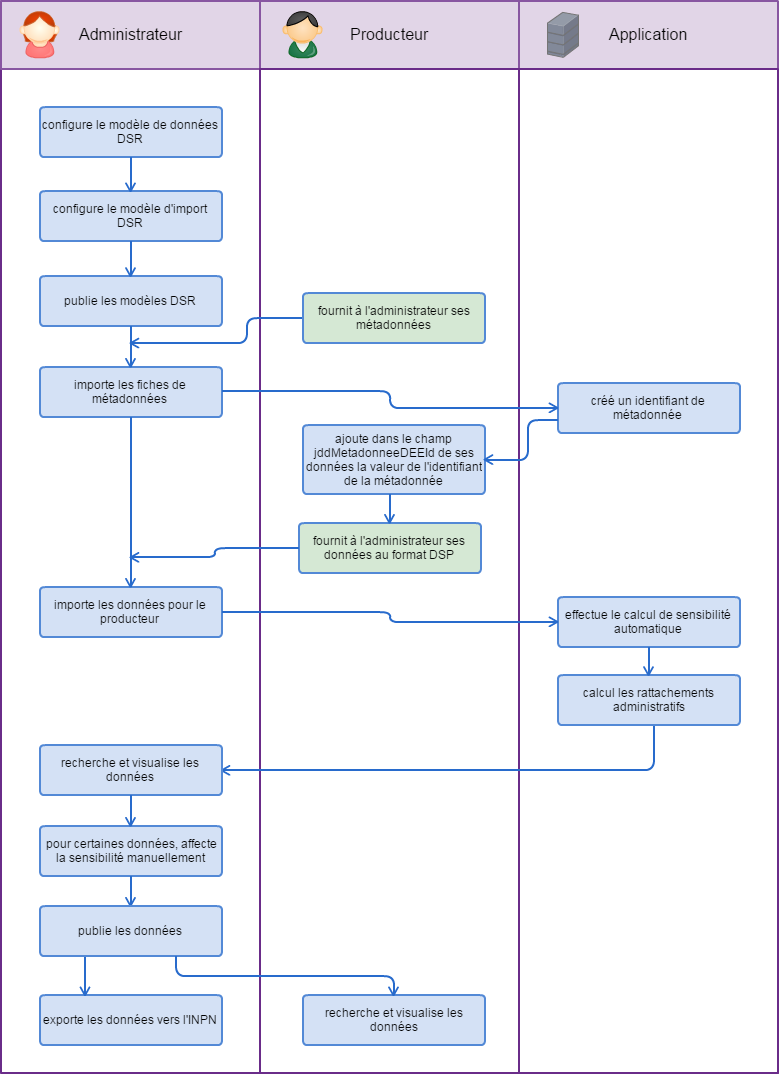
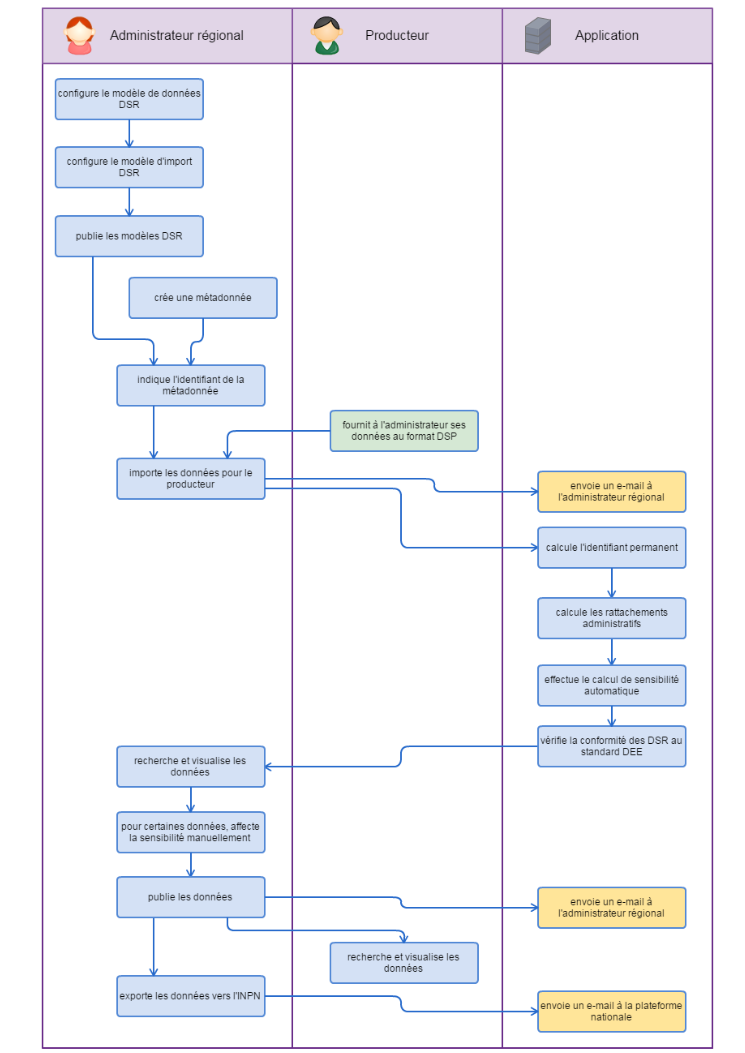
#812: Update documentation pictures

diff --git a/documentation/user/source/gestion-jdd/gerer-les-jeux-de-donnees.rst b/documentation/user/source/gestion-jdd/gerer-les-jeux-de-donnees.rst
@@ -10,12 +10,21 @@ Importer un nouveau jeu de données
 
 Sur la page d'accueil "Gérer les jeux de données", cliquez sur "Importer un nouveau jeu de données".
 
+L'application redirige sur la page de déclaration de l'identifiant de métadonnées.
+
+.. image:: ../images/gestion-jdd/nouveau-jdd-4.png
+
+Vous devez alors renseigner :
+
+1. **l'identifiant de métadonnées** correspondant à votre jeu de données. Pour cela il faut que vous ayez créé une métadonnée (voir :ref:`metadonnees_index` ).
+
+2. **le modèle de données** rattaché au jeu de données
+
+Après avoir validé, choisissez ensuite :
+
 .. image:: ../images/gestion-jdd/nouveau-jdd-2.png
 
-Choisissez ensuite :
-
-1. **le modèle d'import à utiliser :** celui-ci définit le modèle de données auquel doit être rattaché
-le jeu de données, mais aussi le format attendu du (des) fichier(s) csv; en particulier le nombre et l'ordre des
+1. **le modèle d'import à utiliser :** celui-ci définit le format attendu du (des) fichier(s) csv; en particulier le nombre et l'ordre des
 champs, leur caractère obligatoire, le format des dates. Les modèles d'import sont créés par l'administrateur régional
 dans le configurateur Ginco.
 
@@ -42,7 +51,7 @@ et se fait en arrière plan.
 .. image:: ../images/gestion-jdd/importer-ERROR.png
 
 Une barre de progression indique le pourcentage de données traitées et importées. Le résultat de l'import est
-ensuite affiché : OK ou ERROR. Dans ce cas, téléchargez le "Rapport de conformité et cohérence", qui liste les erreurs
+ensuite affiché : le fichier contient des erreurs, ou les données ont bien été importées. Dans ce cas, téléchargez le "Rapport de conformité et cohérence", qui liste les erreurs
 rencontrées lors de l'import, pour vous aider à corriger le problème. Vous pouvez aussi vous reporter
 à :ref:`corriger_les_erreurs_dimport`.
 
@@ -53,21 +62,21 @@ Liste des jeux de données
 La page d'accueil de gestion des jeux de données liste l'ensemble des jeux de données importés ainsi que leurs actions associées.
 Pour chaque jeu de données, elle indique :
 
-* le numéro de la soumission (utile pour identifier la livraison plus simplement qu'avec le jddid),
+* le numéro de la soumission (utile pour identifier la livraison simplement),
+* l'identifiant de la métadonnée,
 * la date de la soumission,
+* le titre de la métadonnée,
 * l'organisme et l'utilisateur auxquels sont attribuées les données ; attention, l'utilisateur est bien celui ayant
   effectué la livraison, par contre l'organisme est l'organisme producteur de la donnée qui a été défini lors de l'import.
-* le nom du modèle d'import utilisé,
-* l'étape en cours du processus d'import, ainsi que le statut de cette étape (généralement OK ou ERROR),
-* le nom du fichier livré ainsi que son nombre de lignes,
-* une colonne permettant d'exporter les jeux de données en DEE au format GML (voir la partie :ref:`exporter_en_dee`),
-* une colonne listant les actions possibles.
+* le nombre de données importées,
+* les actions possibles sur la DSR,
+* les rapports à télécharger (conformité et cohérence, sensibilité, identifiants permanents),
+* les actions possibles sur la DEE. Notamment exporter les jeux de données en DEE au format GML,
+* une colonne premettant de supprimer le jeu de données.
 
 .. image:: ../images/gestion-jdd/liste-jdd.png
 
 Actions possibles sur les jeux de données :
-
-* **Rapport de conformité et cohérence** crée un pdf listant les éventuelles erreurs rencontrées lors de l'intégration.
 
 * **Publier les données** rend les données de la soumission requêtables pour tous les utilisateurs (donc visibles sur la carte et dans le tableau de résultat), et permet de faire l'export GML.
   Tant que la soumission n'est pas publiée, les données sont visibles uniquement aux utilisateurs ayant la permission "Publier les données", qui sont aussi les seuls à pouvoir réaliser l'action de publication.
@@ -75,8 +84,19 @@ Actions possibles sur les jeux de données :
 * **Dépublier les données** rend les données de la soumission non consultables pour les utilisateurs n'ayant pas la permission "Publier les données".
   De même, l'export GML n'est plus réalisable.
   
+* **Téléverser un jeu de données** permet d'importer un autre fichier au jeu de données.
+
+* **Supprimer la soumission** supprime les données associées, même si elles ont été éditées entre temps.
+  
+* **Rapport de conformité et cohérence** crée un pdf listant les éventuelles erreurs rencontrées lors de l'intégration.
+
 * **Rapport de sensibilité** crée un csv listant les données sensibles du jeu de données (le calcul de la sensibilité
   fait partie des traitements réalisés par l'application lors de l'import).
 
-* **Supprimer le jeu de données** supprime le jeu de données et les données associées, même si elles ont été éditées
-  entre temps.
+* **Rapport identifiants permanents** crée un csv associant les identifiantOrigine et identifiantPremanent du jeu de données.
+
+* **Télécharger les DEE** exporte les données au format GML (voir la partie :ref:`exporter_en_dee`).
+
+* **Générer les DEE** exporte les données au format GML et notifie la platforme nationale (voir la partie :ref:`exporter_en_dee`).
+
+* **Supprimer le jeu de données** supprime le jeu de données.

diff --git a/documentation/user/source/recherche-visu/requeteur.rst b/documentation/user/source/recherche-visu/requeteur.rst
@@ -156,28 +156,21 @@ Dans le formulaire "localisation", le critère "géométrie" permet de définir 
 Pour définir un polygone, après avoir sélectionné le critère "géométrie", il faut cliquer sur l'icone représentant un crayon à côté du champ texte.
 Cela active le traçage d'une géométrie via la souris sur la carte et fait apparaître une barre d'icones en haut de la carte, dont le fonctionnement est le suivant :
 
- * Zoomer sur la sélection : 
-Lorsque l'on clique sur cette icone, l'emprise de la carte est redéfinie à celle de la géométrie de recherche si elle existe.
+* **Zoomer sur la sélection :** Lorsque l'on clique sur cette icone, l'emprise de la carte est redéfinie à celle de la géométrie de recherche si elle existe;
 
- * Snapping : 
-Ce bouton active la saisie le long d'une autre géométrie. La liste déroulante à côté de l'icone permet de choisir la couche sur laquelle accrocher la géométrie.
-Les coutours des entités de la couche séléctionnée apparaissent en bleu sur la carte, et lorsqu'on approche la souris de l'un d'eux, le point bleu correspondant à la géométrie que l'on va tracer se positionne dessus.
+* **Snapping :** Ce bouton active la saisie le long d'une autre géométrie. La liste déroulante à côté de l'icone permet de choisir la couche sur laquelle accrocher la géométrie. Les coutours des entités de la couche séléctionnée apparaissent en bleu sur la carte, et lorsqu'on approche la souris de l'un d'eux, le point bleu correspondant à la géométrie que l'on va tracer se positionne dessus.
 
- * Modifier la géométrie :
-Lorsque cette icone est active, la souris permet de modifier le coutour de la géométrie de recherche. Pour cela, il faut cliquer sur le contour avec la souris, puis la déplacer sans relacher le clic.
+* **Modifier la géométrie :** Lorsque cette icone est active, la souris permet de modifier le coutour de la géométrie de recherche. Pour cela, il faut cliquer sur le contour avec la souris, puis la déplacer sans relacher le clic;
 
- * Sélectionner une géométrie :
-Une géométrie non sélectionnée a un contour jaune. Une géométrie se sélectionne en cliquant dessus avec la souris. Une fois sélectionnée, le contour apparaît en bleu.
+* **Sélectionner une géométrie :** Une géométrie non sélectionnée a un contour jaune. Une géométrie se sélectionne en cliquant dessus avec la souris. Une fois sélectionnée, le contour apparaît en bleu.
 
- * Dessiner un polygone : 
-Un clic simple sur la carte ajoute un sommet au polygone, un double clic ferme le polygone en ajoutant un sommet.
-Il est possible de dessiner plusieurs polygones pour un même critère de recherche.
+* **Dessiner un polygone :** Un clic simple sur la carte ajoute un sommet au polygone, un double clic ferme le polygone en ajoutant un sommet. Il est possible de dessiner plusieurs polygones pour un même critère de recherche.
 
- * Sélectionner un contour sur la couche sélectionnée :
-Au lieu de dessiner un polygone à la main sur la carte, cet outil permet de sélectionner une couche dans la liste déroulante (espace naturel ou limite administrative), puis de sélectionner une entité sur la couche choisie en cliquant avec la souris sur la carte.
-Pour visualiser les entités, il est préférable d'afficher également la couche sur la carte via l'arbre des couches du panneau "Couches & légendes", à gauche.
+* **Sélectionner un contour sur la couche sélectionnée :** Au lieu de dessiner un polygone à la main sur la carte, cet outil permet de sélectionner une couche dans la liste déroulante (espace naturel ou limite administrative), puis de sélectionner une entité sur la couche choisie en cliquant avec la souris sur la carte. Pour visualiser les entités, il est préférable d'afficher également la couche sur la carte via l'arbre des couches du panneau "Couches & légendes", à gauche. L'entité sélectionnée a un contour jaune.
 
- * Effacer la géométrie :
+.. image:: ../images/visu/visu-requeteur-critere-geom-wfs.png
+
+* Effacer la géométrie :
 Lorsqu'une géométrie de recherche est sélectionnée, il est possible de la supprimer en cliquant sur cette icone.
 
 Opérations logiques entre critères

diff --git a/documentation/user/source/introduction/presentation.rst b/documentation/user/source/introduction/presentation.rst
@@ -7,7 +7,7 @@ GINCO est une application ministérielle open source assurant les principales fo
 Elle est mise à la disposition de l'ensemble des collecteurs de données et des administrateurs de données en région à partir d’instances régionales de test :
 
 ==============================================    =====================================
-Région                                  			Url GINGO
+Région                                  			Url GINGO test
 ==============================================    =====================================
 Auvergne Rhône-Alpes                    			https://test-ara-ginco.ign.fr
 Bretagne                                			https://test-bretagne-ginco.ign.fr
@@ -27,8 +27,20 @@ Occitanie                                 			https://test-occitanie-ginco.ign.fr
 Deux instances supra-régionales de test ont aussi été créées :
 
 ==============================================    =====================================
-Instance                                  			Url GINGO
+Instance                                  			Url GINGO test
 ==============================================    =====================================
 Thématique occurrences de taxons (MNHN) 			https://test-occtax-ginco.ign.fr
 Développement continu (Dailybuild IGN)  			https://dailybuild-ginco.ign.fr
+==============================================    =====================================
+
+Enfin, les instances de production sont actuellement les suivantes :
+
+==============================================    =====================================
+Instance                                  			Url GINGO production
+==============================================    =====================================
+Thématique occurrences de taxons (MNHN)            	https://occtax-ginco.ign.fr/
+Grand Est                                			https://grandest-ginco.ign.fr/
+Nouvelle-Aquitaine                                	https://nouvelleaquitaine-ginco.ign.fr/
+Languedoc-Roussillon                                https://languedocroussillon-ginco.ign.fr/
+Midi-pyrenees                                       https://midipyrenees-ginco.ign.fr/
 ==============================================    =====================================

diff --git a/documentation/user/source/recherche-visu/cartographie.rst b/documentation/user/source/recherche-visu/cartographie.rst
@@ -13,6 +13,9 @@ avec à sa droite, la liste des couches cartographiques.
 Couches et légendes
 -------------------
 
+Couches
+^^^^^^^
+
 Le panneau à droite de la carte est découpé en deux onglets : "Couches" et "Légendes".
 
 Il permet de masquer les couches que vous ne souhaitez pas afficher en les désélectionnant, et inversement.
@@ -33,6 +36,14 @@ Les dates d'édition des couches EN sont disponibles `ici <https://www.geoportai
 
 L'opacité des couches est modifiable en cliquant avec le bouton droit de la souris sur l'intitulé de la couche, 
 puis en déplaçant le curseur.
+
+Légendes
+^^^^^^^^
+
+Les légendes des couches apparaissent dans l'onglet "Legendes".
+
+.. image:: ../images/visu/visu-legendes.png
+
 
 Vous pouvez masquer totalement le panneau en cliquant sur le symbole représentant deux chevrons vert la droite en haut à droite du panneau.
 
@@ -76,4 +87,14 @@ A partir d'un niveau de zoom suffisamment précis, il est possible d'afficher la
 Lorsque plusieurs observations correspondent à l'endroit cliqué, elles apparaissent toutes dans la table.
 
 .. image:: ../images/visu/visu-carto-table-attributaire.png
+
+Informations sur les couches
+----------------------------
+
+Le bouton "Voir les informations sur la couche sélectionnée" permet de sélectionner une couche puis d'interroger ses entités en cliquant sur la carte.
+
+.. image:: ../images/visu/visu-WFS.png
+
+.. note:: Pour visualiser les entités sur la carte, il est recommandé de sélectionner la couche dans l'arbre des couches également.
+
 

diff --git a/documentation/user/source/recherche-visu/fiche-detail.rst b/documentation/user/source/recherche-visu/fiche-detail.rst
@@ -4,7 +4,7 @@ Fiche de detail
 ===============
 
 Le panneau « Détails » s’affiche sur la droite de la carte et présente les différents champs de l'observation 
-ainsi que deux vignettes cartographiques correspondant au zoom communal et départemental sur l'observation.
+regroupés de la même façon que pour le requêteur.
 
 .. image:: ../images/visu/visu-detail.png
 
